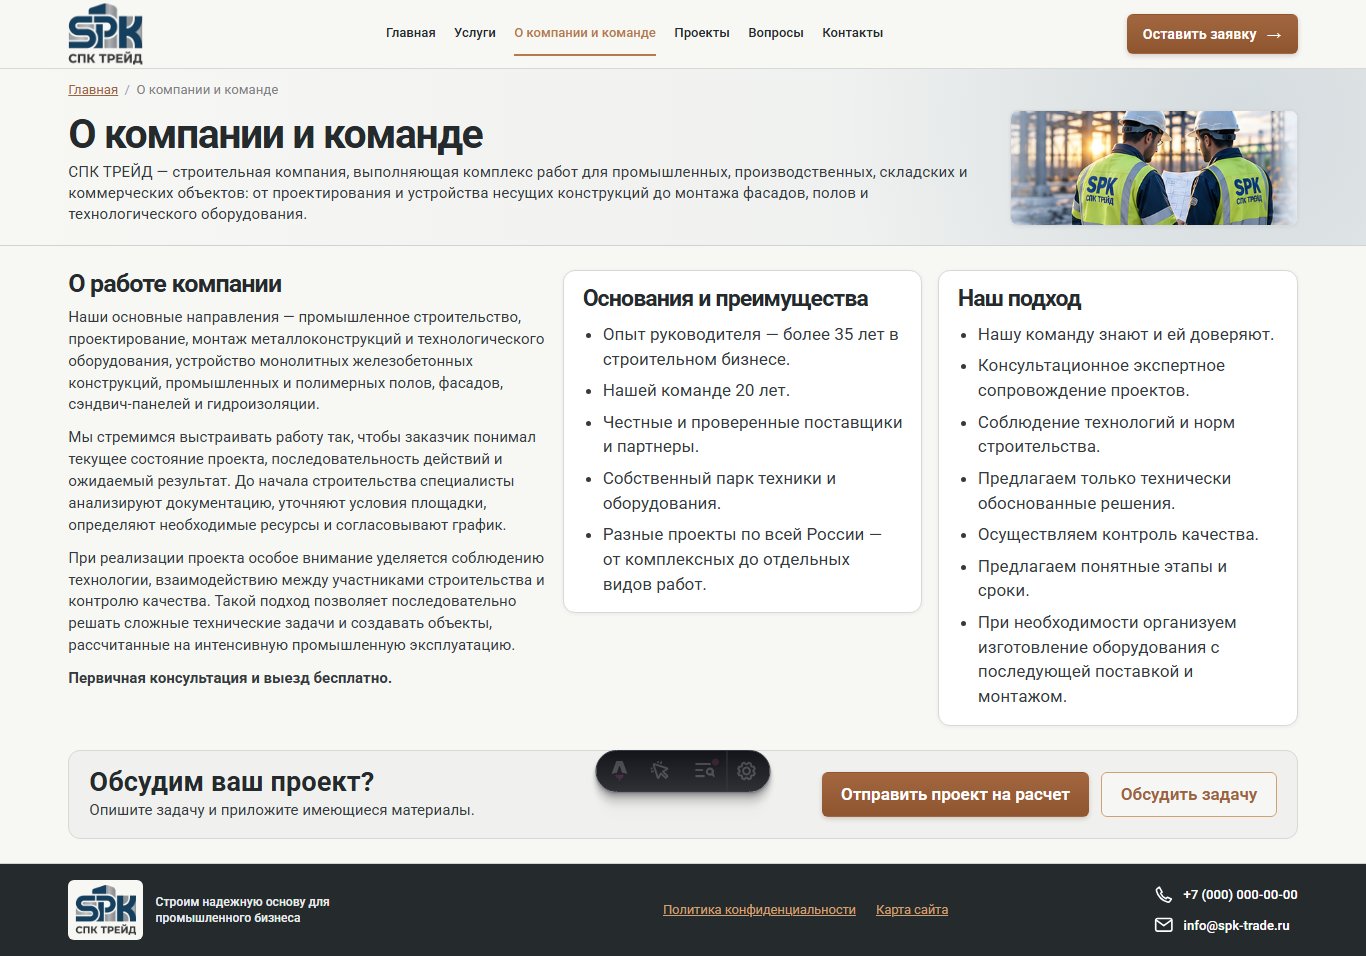
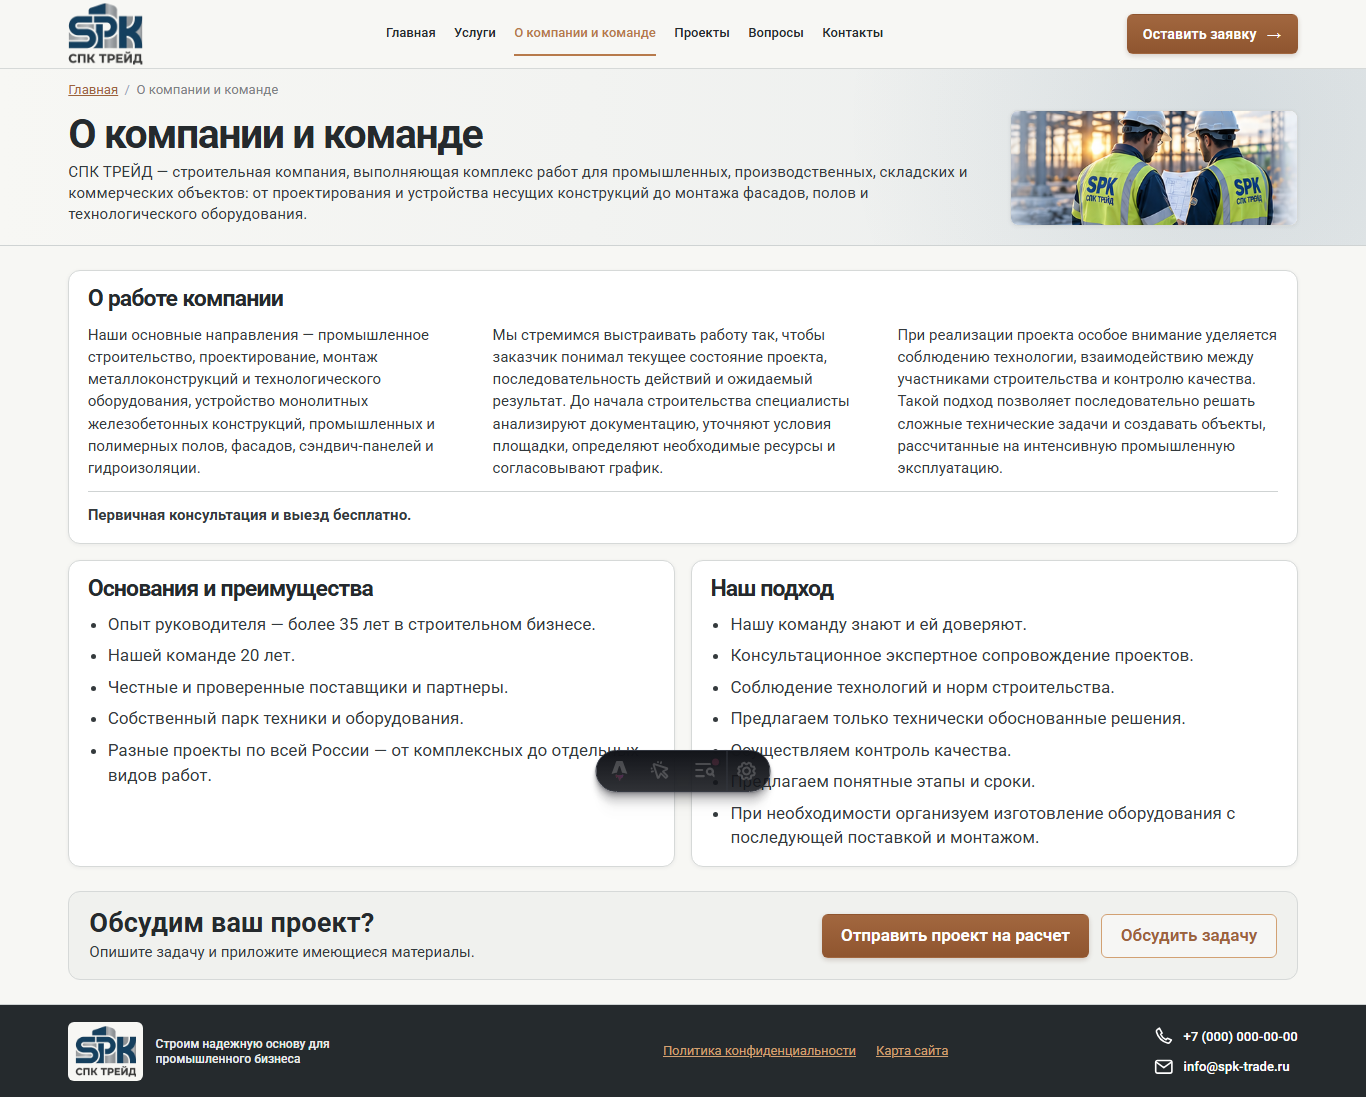
Выровнять страницу о компании

Changed region(s): [[0.0, 0.0, 1.0, 1.0], [0.7072, 0.0, 1.0, 0.273], [0.2767, 0.0303, 0.6457, 0.0607]]

diff --git a/src/styles/global.css b/src/styles/global.css
@@ -1587,17 +1587,41 @@ h3 {
 
 .about-content-grid {
   display: grid;
-  grid-template-columns: minmax(0, 1.2fr) repeat(2, minmax(15rem, 0.9fr));
-  align-items: start;
+  grid-template-columns: repeat(2, minmax(0, 1fr));
+  align-items: stretch;
   gap: 1rem;
 }
 
 .about-content-grid .info-card {
+  height: 100%;
   padding: 1rem 1.15rem;
 }
 
 .about-content-grid .info-card h2 {
   font-size: clamp(1.2rem, 1.65vw, 1.5rem);
+}
+
+.about-story {
+  grid-column: 1 / -1;
+}
+
+.about-story-copy {
+  display: grid;
+  grid-template-columns: repeat(3, minmax(0, 1fr));
+  gap: 0.75rem 1.5rem;
+  margin-top: 0.75rem;
+  font-size: clamp(0.94rem, 1.08vw, 1rem);
+  line-height: 1.48;
+}
+
+.about-story-copy p {
+  margin: 0;
+}
+
+.about-consultation {
+  grid-column: 1 / -1;
+  padding-top: 0.75rem;
+  border-top: 1px solid var(--color-divider);
 }
 
 .inner-page .faq-list {
@@ -1938,8 +1962,8 @@ h3 {
     grid-template-columns: repeat(2, minmax(0, 1fr));
   }
 
-  .about-content-grid > .prose {
-    grid-column: 1 / -1;
+  .about-story-copy {
+    grid-template-columns: repeat(2, minmax(0, 1fr));
   }
 
   .inner-page .service-detail-flow {
@@ -2126,8 +2150,8 @@ h3 {
     grid-template-columns: 1fr;
   }
 
-  .about-content-grid > .prose {
-    grid-column: auto;
+  .about-story-copy {
+    grid-template-columns: 1fr;
   }
 
   .inner-page .inner-thumbnail {

diff --git a/qa/REPORT.md b/qa/REPORT.md
@@ -64,6 +64,7 @@ GitHub: `https://github.com/bogatovaprof-hub/spk-website`
 - страница расчёта целиком помещается в 1366 × 768 px, включая шапку и подвал;
 - на широком экране каталог услуг использует пять колонок, каталог проектов — четыре;
 - на мобильном форма и все сетки возвращаются в одну колонку без горизонтального переполнения.
+- на странице «О компании и команде» широкое описание и две равные нижние карточки образуют ровные горизонтальные ряды без ступенчатого нижнего края.
 
 ### Сравнение высоты главной и внутренних страниц при 1366 × 768 px
 
@@ -72,7 +73,7 @@ GitHub: `https://github.com/bogatovaprof-hub/spk-website`
 | Главная | 3141 px / 4,09 экрана | 1138 px / 1,48 экрана | услуги и остальные подробные разделы вынесены на отдельные страницы |
 | Отправить проект на расчёт | 1462 px / 1,90 экрана | 768 px / 1,00 экрана | помещается без прокрутки |
 | Услуги | 1570 px / 2,04 экрана | 1147 px / 1,49 экрана | основной каталог и специальные направления собраны на одной странице |
-| О компании и команде | 1709 px / 2,23 экрана | 956 px / 1,24 экрана | сокращено на 44% |
+| О компании и команде | 1709 px / 2,23 экрана | 1097 px / 1,43 экрана | выровнено в широкий блок и две одинаковые карточки |
 | Проекты | 2175 px / 2,83 экрана | 1280 px / 1,67 экрана | сокращено на 41% |
 | Вопросы | 1303 px / 1,70 экрана | 768 px / 1,00 экрана | помещается без прокрутки |
 | Контакты | 937 px / 1,22 экрана | 768 px / 1,00 экрана | помещается без прокрутки |
@@ -97,7 +98,7 @@ GitHub: `https://github.com/bogatovaprof-hub/spk-website`
 | `qa/screenshots/apk-1440.png` | 1440 × 1000 |
 | `qa/screenshots/form-errors-390.png` | 390 × 1340 |
 | `qa/screenshots/mobile-menu-390.png` | 390 × 2114 |
-| `qa/screenshots/about-1366.png` | 1366 × 956 |
+| `qa/screenshots/about-1366.png` | 1366 × 1097 |
 | `qa/screenshots/request-1366.png` | 1366 × 768 |
 
 ## 6. Статус

diff --git a/docs/CLIENT_REVISION_2026-09-23.md b/docs/CLIENT_REVISION_2026-09-23.md
@@ -22,6 +22,7 @@
 - Каталог услуг на широком экране показывает пять карточек в ряд; страница проектов — четыре карточки в ряд.
 - Длинные текстовые страницы продолжают прокручиваться: содержание не сокращается и не скрывается ради формального размещения на одном экране.
 - На телефоне форма и карточки возвращаются в одну колонку, чтобы сохранить удобный размер текста и элементов управления.
+- Страница «О компании и команде» выровнена по карточной сетке: описание компании занимает один широкий блок с равными текстовыми колонками, а блоки преимуществ и подхода образуют второй ряд одинаковой высоты.
 
 ## Обновленная главная
 
